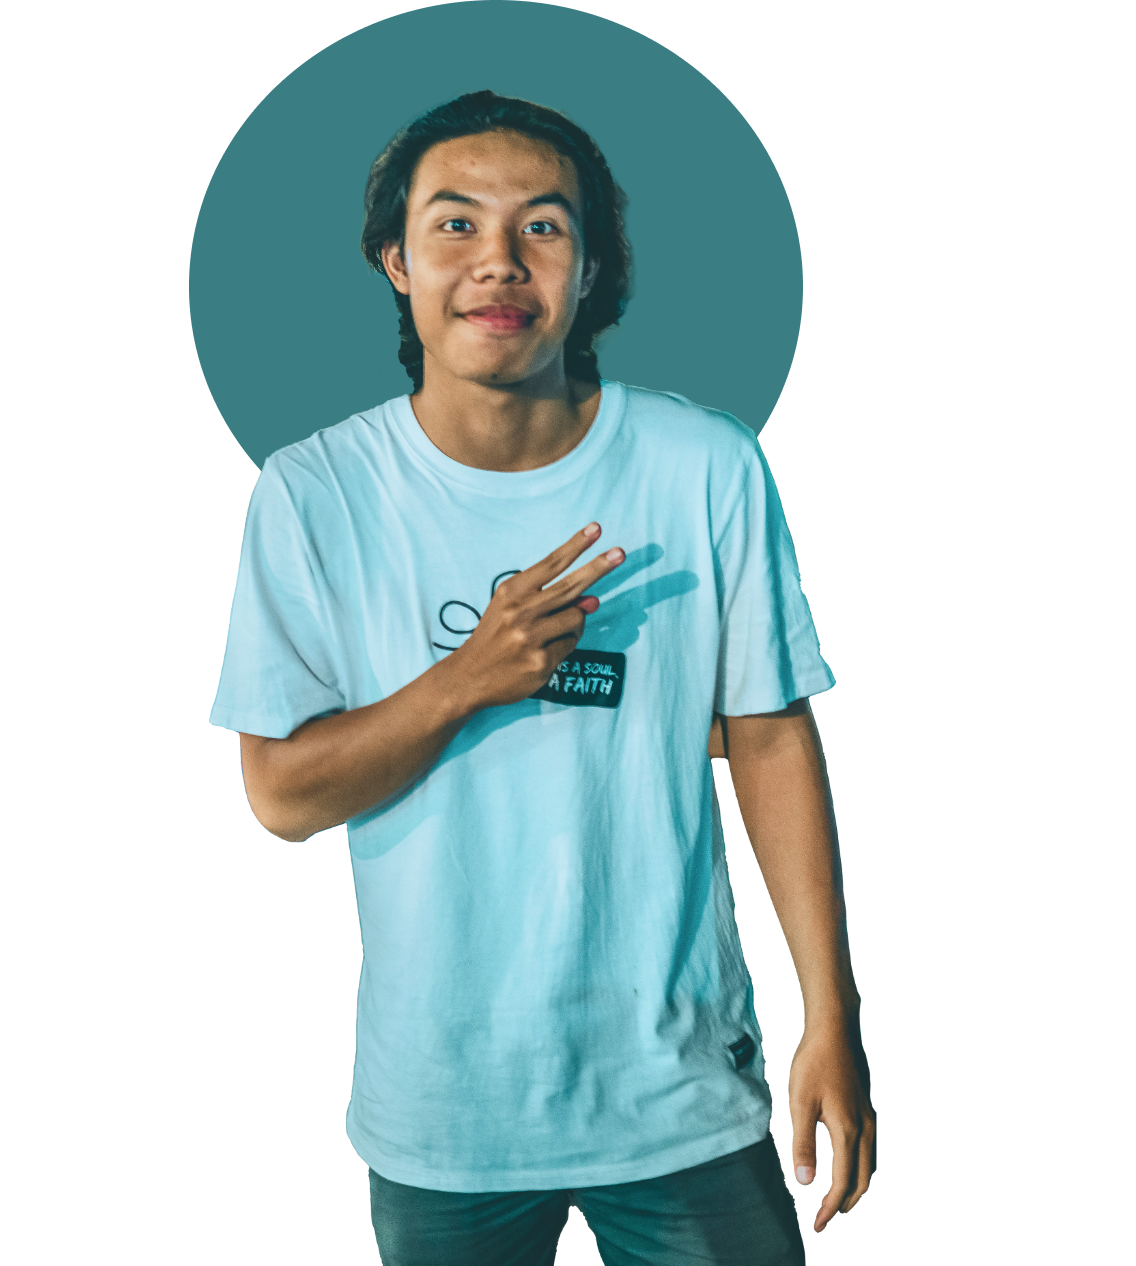
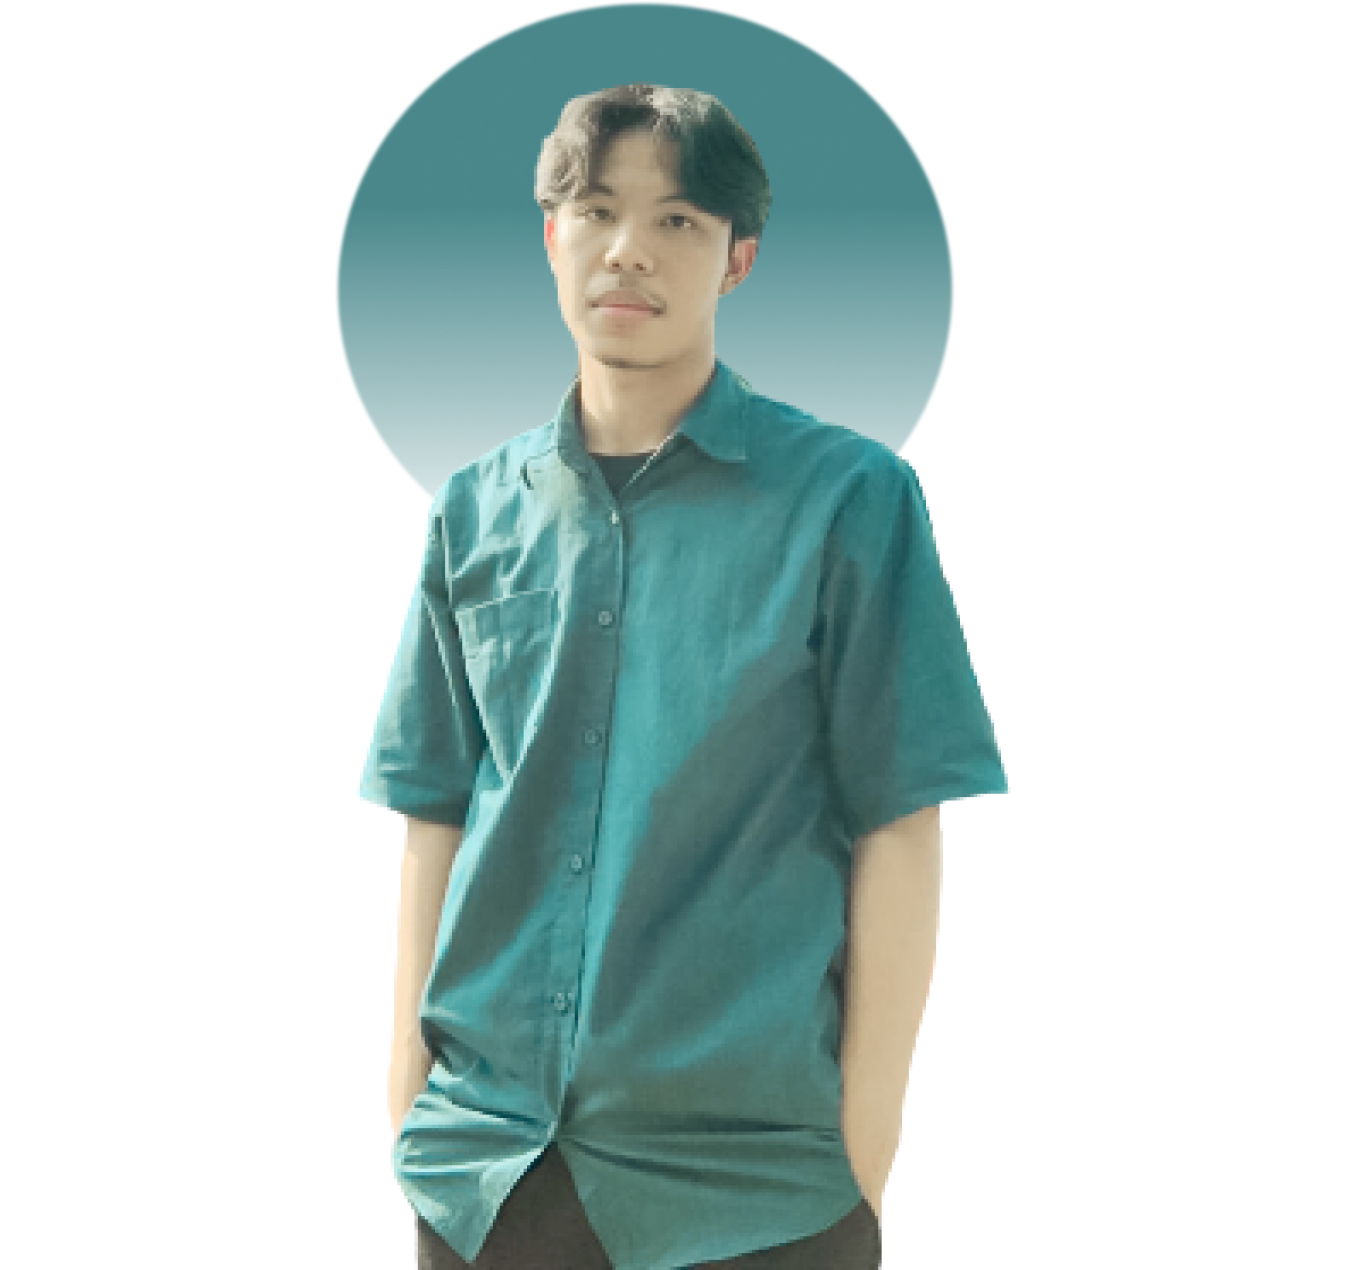
change hero img

diff --git a/src/Pages/Styles/Styles.css b/src/Pages/Styles/Styles.css
@@ -110,18 +110,18 @@ nav ul {
 }
 
 #banner .col-1 {
-    width: 60%;
+    width: 70%;
     padding-top: 10rem;
     margin-left: 7rem;
 }
 
 #banner .col-1 h1 {
-    font-size: 1.8rem;
+    font-size: 1.2rem;
     line-height: 0%;
 }
 
 #banner .col-1 p:nth-child(2) {
-    font-size: 1.3rem;
+    font-size: 1rem;
     font-weight: 300;
 }
 
@@ -133,6 +133,7 @@ nav ul {
 #banner .col-2 {
     margin-left: 2rem;
     height: 400px;
+    width: auto;
     margin-top: 0rem;
 }
 
@@ -466,10 +467,11 @@ footer .logo img {
         flex-direction: column;
         align-items: center;
         padding: 2rem;
+        position: relative;
     }
 
     .bannerHero {
-        position: relative;
+        
     }
 
     #banner .col-1 {
@@ -489,11 +491,19 @@ footer .logo img {
         line-height: 25px;
     }
 
-    #banner .col-2 img{
+    /* #banner .col-2 img{
         position: absolute;
         right: 0;
         bottom: 0;
         height: 50vh;
+    } */
+
+    #banner .col-2 img{
+        margin-top: 0;
+        position: absolute;
+        height: 50vh;
+        left: 0;
+        bottom: 0;
     }
 
     .btnHero {
